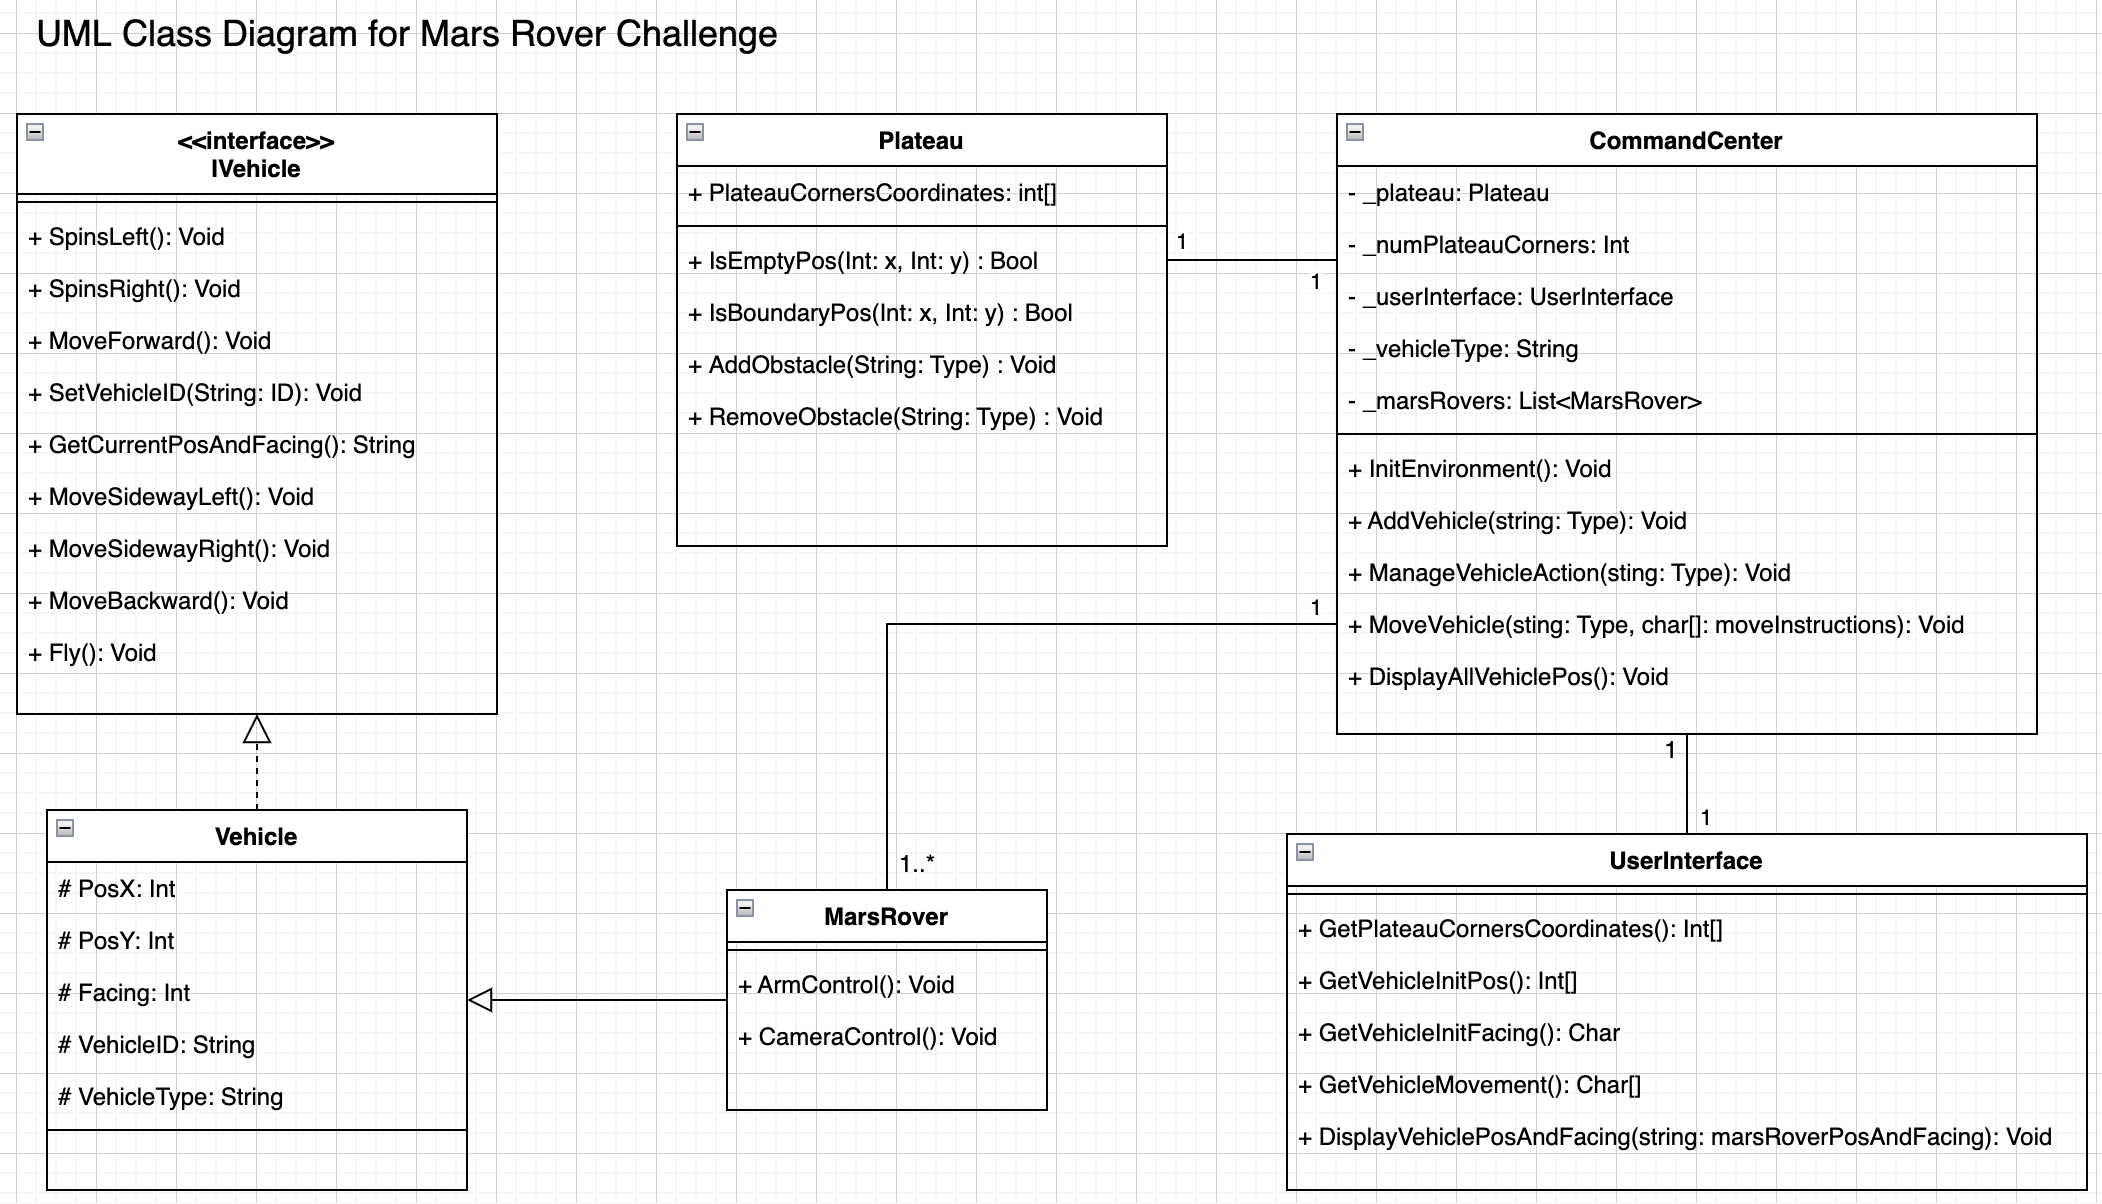
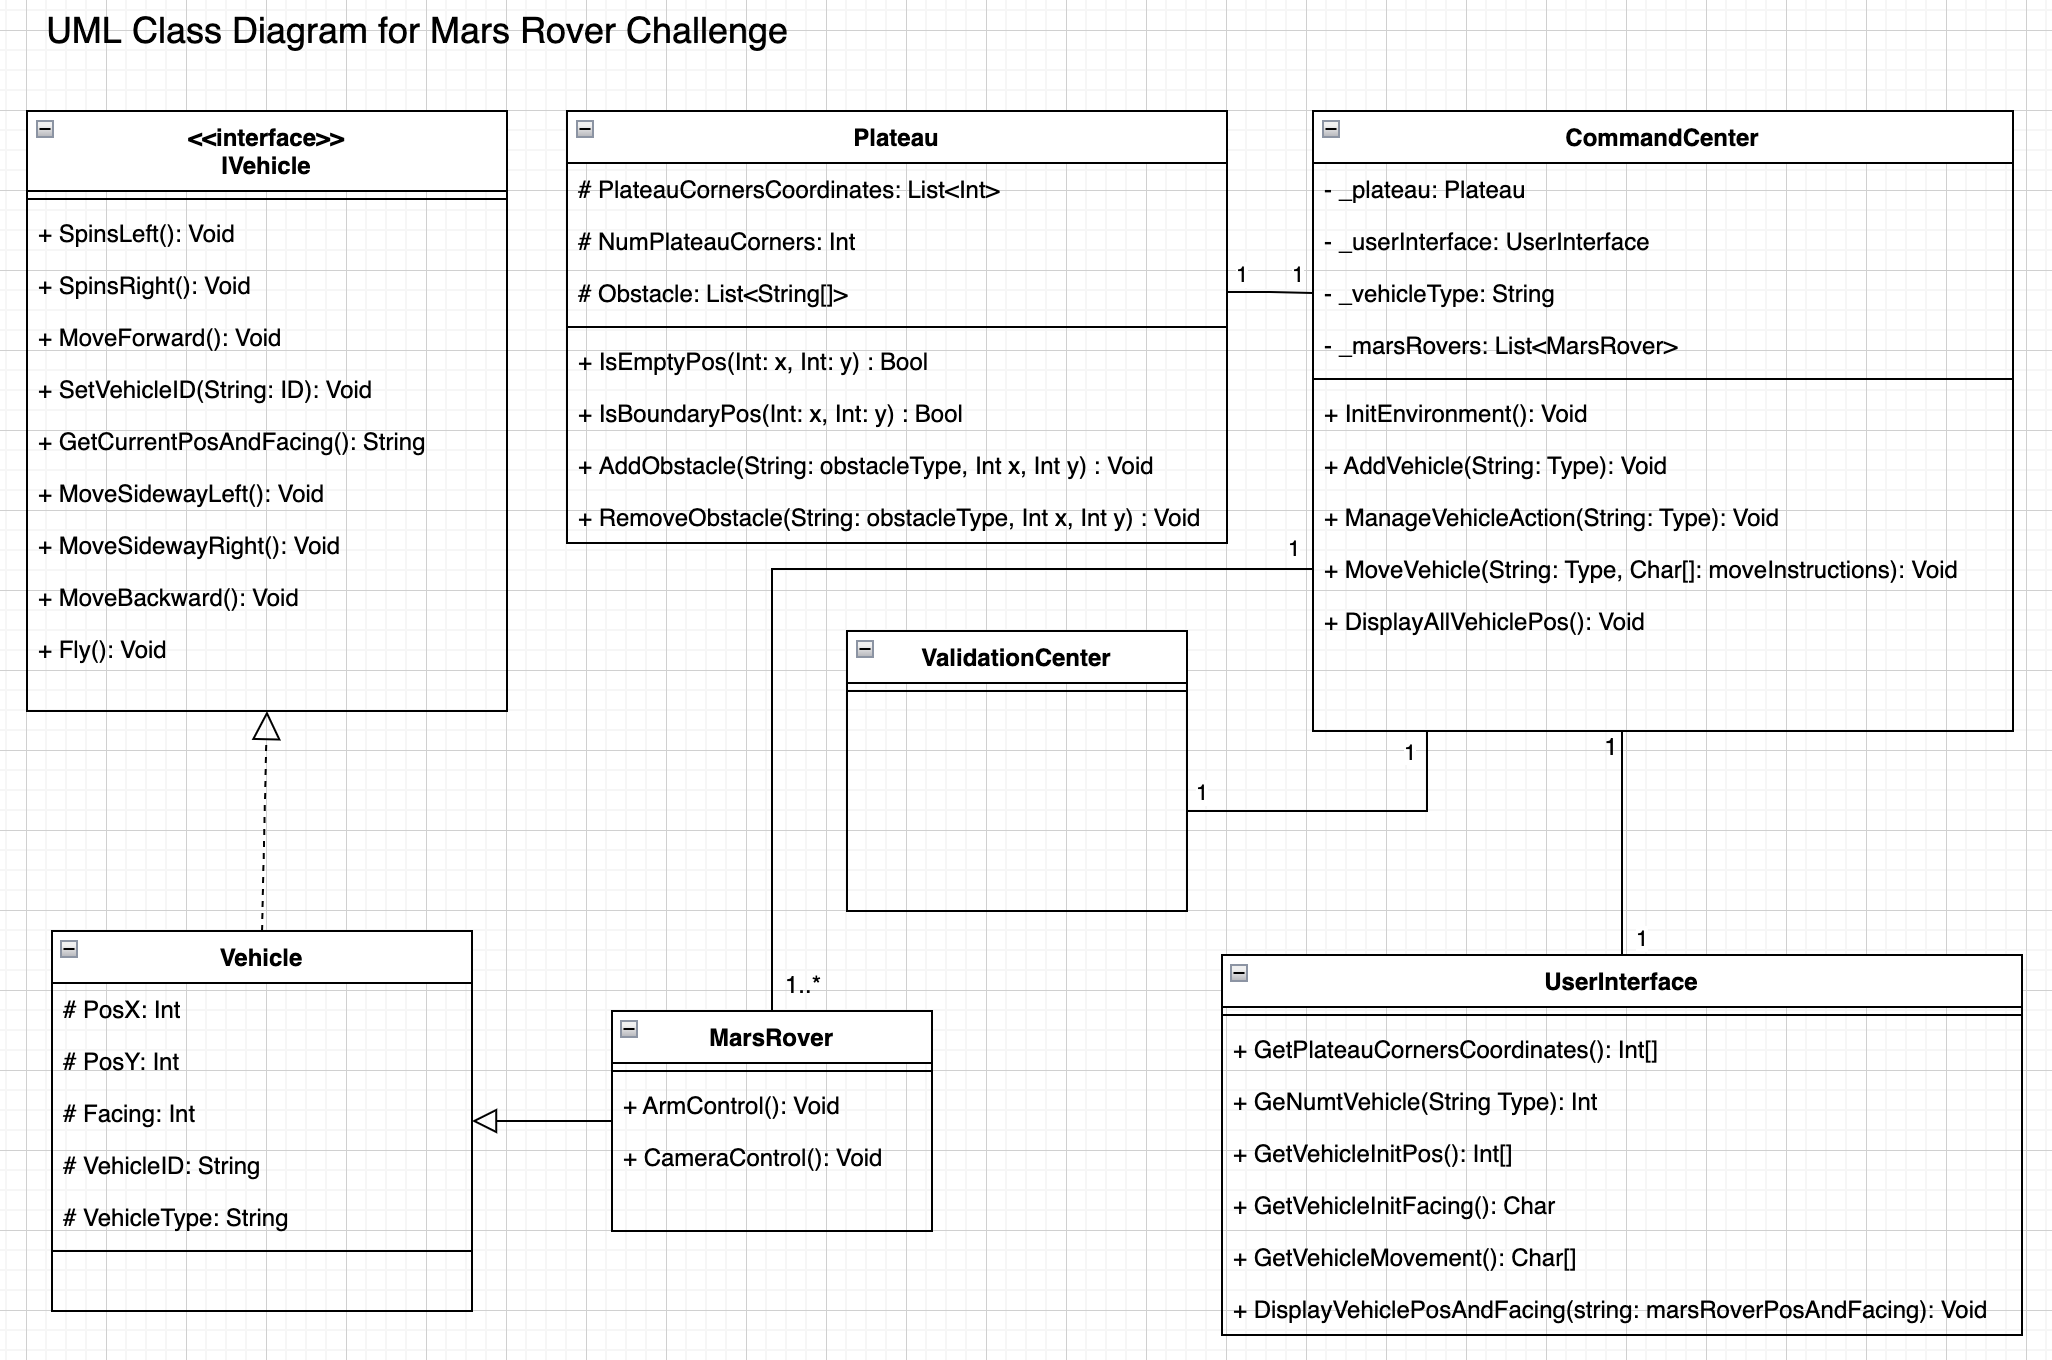
Protected attribute NumPlateauCorners in Plateau and updated Class Diagram to add ValidationCenter

diff --git a/ExplorerService/Plateau.cs b/ExplorerService/Plateau.cs
@@ -2,7 +2,7 @@
 {
     public class Plateau
     {
-        public int NumPlateauCorners{ get; private set; }
+        protected int NumPlateauCorners{ get; private set; }
         protected List<int> PlateauCornersCoordinates { get; private set; }
         protected List<string[]> Obstacle { get; private set; } //structure {{ Obstacle Type, Coordinate X, Coordinate Y }, { Obstacle Type, Coordinate X, Coordinate Y }, etc}
 

diff --git a/ExplorerService.Tests/PlateauTest.cs b/ExplorerService.Tests/PlateauTest.cs
@@ -13,12 +13,13 @@ public class PlateauTests
         _commandCenter = new CommandCenter();
     }
 
-
+/*
     [Test]
     public void GivenPlateauSizeAndNumberOfPointsShouldBeAbleToCreateAPlateau()
     {
         _plateau.NumPlateauCorners.Should().Be(4);
     }
+*/
 
     [Test]
     public void CheckCoordinatesWithEmptyObstaclesSholdReturnTrue()
